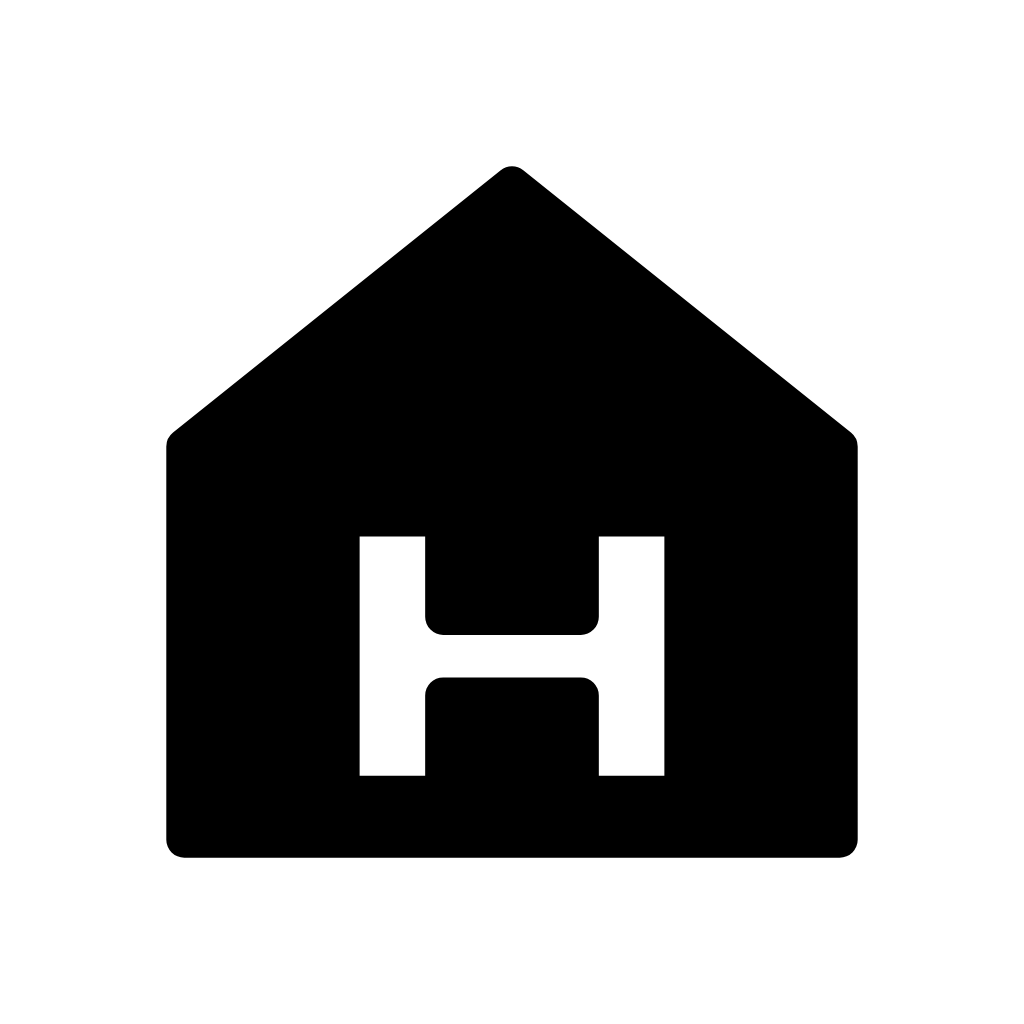
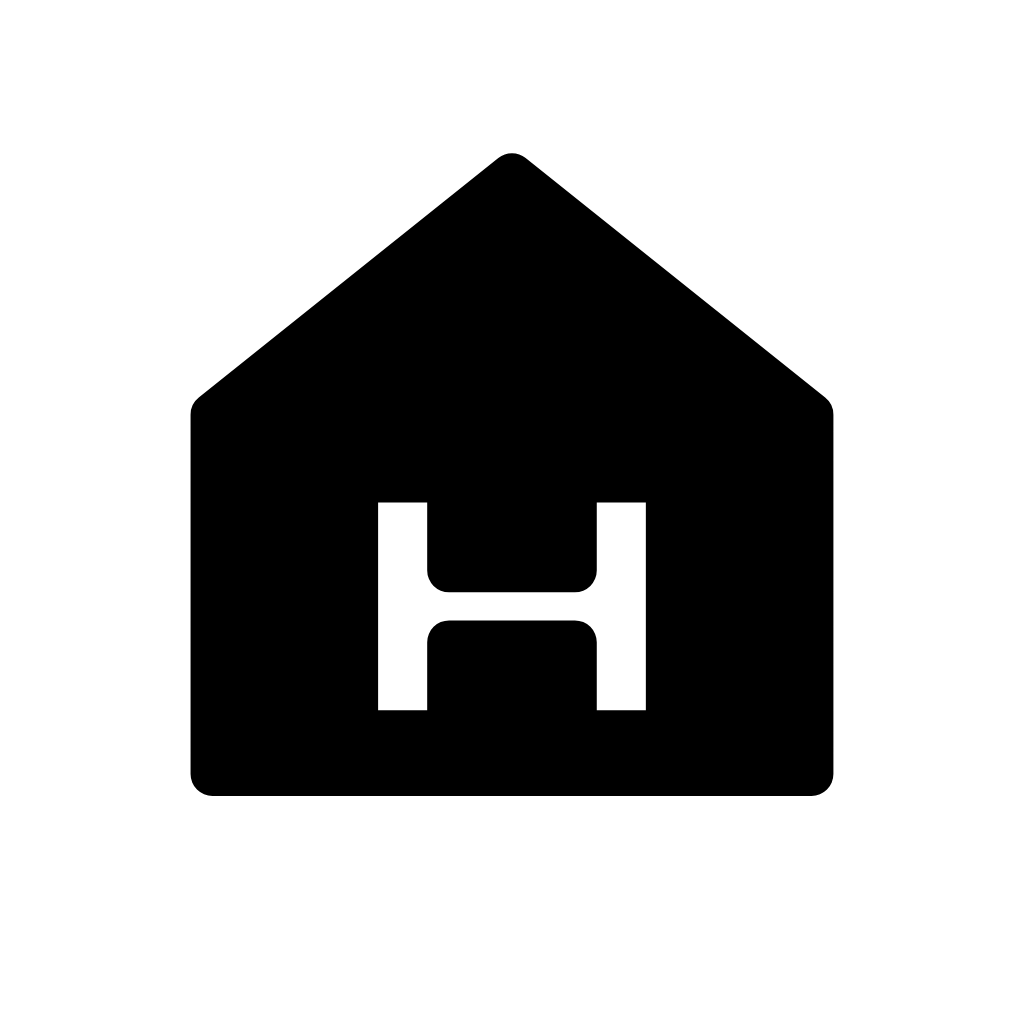
Fit the launcher mark to its enclosing circle, not its bounding box
The first pass sized the mark by bounding box, which is the wrong measure
for a mask that is a circle. The house's extreme points are its two bottom
corners, so a box fit centred it geometrically but not optically: the wide
base crowded the mask while the roof peak left the room above it unused, and
at the ceiling of 63.6% the corners landed on the safe circle itself and the
mark read as though it had been clipped.

Fit the minimum enclosing circle instead. The centre is found by stepping
toward the farthest sampled point with a shrinking step, then eased halfway
back toward the box centre — the tight centre maximises size but lifts the
house visibly high, and the halfway point recovers the balance for about 6%
of the size. sourceFraction now means enclosing-circle diameter over canvas
width, against a hard ceiling of 66/73.44 = 0.899; it is set to 0.82.

Also compensate for the roundness stroke, which is centred and so dilated
the silhouette by half its width on every side, pushing it past the circle.

Measured on the generated artwork: max radius 30.13dp against the 33dp safe
radius, 91.3%, so the mark clears the mask with real margin.

diff --git a/tool/generate_launcher_icons.dart b/tool/generate_launcher_icons.dart
@@ -23,10 +23,17 @@
 // and the generated mipmap-anydpi-v26/ic_launcher.xml then insets it by 16%,
 // so the artwork lives across 73.4dp. The launcher's safe circle is 66dp.
 //
-// A square-ish mark is limited by its DIAGONAL: to inscribe in a 66dp circle
-// its side must be <= 66/sqrt(2) = 46.7dp, which is 46.7/73.4 = ~64% of the
-// source canvas. A circular mark has no diagonal penalty and can run to
-// 66/73.4 = ~90%; we stop at 80% to leave breathing room.
+// The mask is a circle, so `sourceFraction` is the diameter of the mark's
+// MINIMUM ENCLOSING CIRCLE as a fraction of the canvas — not a bounding-box
+// width. The hard ceiling is 66/73.44 = 0.899; we draw at 0.82, leaving about
+// 9% radial margin so the mark does not appear to graze the mask.
+//
+// Measuring radially rather than by bounding box matters for a shape like the
+// house, whose extreme points are its two bottom corners. Fitting its box
+// centred the shape geometrically but not optically: the base crowded the mask
+// while the roof peak left room unused. The enclosing-circle fit re-centres it
+// and, because the shape's optimal centre sits above its box centre, allows a
+// noticeably larger mark at the same safe-circle limit.
 //
 // The icon being replaced was configured at 50%, i.e. 36.7dp inside a 66dp
 // circle — about 31% of the visible area. That is why it read as a small mark
@@ -89,7 +96,7 @@ class ConceptA extends Concept {
   String get id => 'a';
 
   @override
-  double get sourceFraction => 0.64;
+  double get sourceFraction => 0.82;
 
   @override
   Path unitPath() {
@@ -128,7 +135,7 @@ class ConceptB extends Concept {
   final double roundness;
 
   @override
-  double get sourceFraction => 0.64;
+  double get sourceFraction => 0.82;
 
   @override
   Path unitPath() {
@@ -165,7 +172,7 @@ class ConceptC extends Concept {
   String get id => 'c';
 
   @override
-  double get sourceFraction => 0.80;
+  double get sourceFraction => 0.82;
 
   static const _center = Offset(0.5, 0.66);
   static const _radius = 0.34;
@@ -245,19 +252,80 @@ final concepts = <Concept>[
 // Rendering
 // ---------------------------------------------------------------------------
 
-/// Scales a concept's unit path so its bounding box spans [fraction] of a
-/// [side]-px canvas, centred on the canvas.
+/// Samples points along every contour of [p], for the enclosing-circle fit.
+List<Offset> _samplePath(Path p) {
+  final pts = <Offset>[];
+  for (final metric in p.computeMetrics()) {
+    final n = math.max(24, (metric.length * 200).round());
+    for (var i = 0; i <= n; i++) {
+      final t = metric.getTangentForOffset(metric.length * i / n);
+      if (t != null) pts.add(t.position);
+    }
+  }
+  return pts;
+}
+
+/// Smallest circle enclosing [pts], found by repeatedly stepping the centre
+/// toward whichever point is currently farthest with a shrinking step.
+(Offset centre, double radius) _enclosingCircle(List<Offset> pts) {
+  var c = pts.first;
+  for (final p in pts) {
+    c = Offset(c.dx + p.dx, c.dy + p.dy);
+  }
+  c = Offset(c.dx / (pts.length + 1), c.dy / (pts.length + 1));
+
+  var f = 0.1;
+  for (var i = 0; i < 6000; i++) {
+    var far = pts.first;
+    var best = -1.0;
+    for (final p in pts) {
+      final d = (p - c).distanceSquared;
+      if (d > best) {
+        best = d;
+        far = p;
+      }
+    }
+    c = Offset(c.dx + (far.dx - c.dx) * f, c.dy + (far.dy - c.dy) * f);
+    f *= 0.9988;
+  }
+
+  var r = 0.0;
+  for (final p in pts) {
+    r = math.max(r, (p - c).distance);
+  }
+  return (c, r);
+}
+
+/// Scales a concept's unit path so its ENCLOSING CIRCLE spans [fraction] of a
+/// [side]-px canvas, and centres that circle on the canvas.
+///
+/// Fitting the bounding box instead would centre the house geometrically while
+/// its mass sits low: the wide base crowded the launcher's circular mask while
+/// the roof peak wasted the room above it. The mask is a circle, so the fit
+/// that matters is radial — which both re-centres the mark optically and lets
+/// it be meaningfully larger at the same safe-circle limit.
 Path _fitted(Concept c, double side, double fraction) {
   final unit = c.unitPath();
-  final b = unit.getBounds();
-  // Square-ish concepts are constrained by their larger dimension.
-  final span = math.max(b.width, b.height);
-  final scale = (side * fraction) / span;
+  final pts = _samplePath(unit);
+  final (tight, _) = _enclosingCircle(pts);
+
+  // The tight centre maximises size but leaves the house sitting visibly high,
+  // because its optimal centre is 0.125 below the box centre and placing that
+  // on the canvas centre lifts the shape by the same amount. Halfway back
+  // recovers most of the balance and costs only about 6% of the size.
+  final centre = Offset.lerp(tight, unit.getBounds().center, 0.5)!;
+
+  var radius = 0.0;
+  for (final p in pts) {
+    radius = math.max(radius, (p - centre).distance);
+  }
+
+  final scale = (side * fraction / 2) / radius;
 
   final m = Matrix4.identity()
     ..translateByDouble(
-      side / 2 - (b.left + b.width / 2) * scale,
-      side / 2 - (b.top + b.height / 2) * scale,
+      side / 2 - centre.dx * scale,
+      side / 2 - centre.dy * scale,
       0,
       1,
     )
@@ -292,7 +360,13 @@ Future<ui.Image> _renderTile({
   final fraction =
       fractionOverride ?? (concept.sourceFraction * 73.4 / 66.0);
 
-  final path = _fitted(concept, side, fraction);
+  // The roundness stroke is centred, so it dilates the silhouette by half its
+  // width on every side. Shrink the fill first so fill + stroke together span
+  // exactly `fraction` — without this the mark overflowed the safe circle and
+  // the launcher's circular mask clipped the house's bottom corners.
+  final effective = fraction / (1 + concept.roundness);
+  final path = _fitted(concept, side, effective);
+
   canvas.drawPath(
     path,
     Paint()
@@ -309,7 +383,7 @@ Future<ui.Image> _renderTile({
         ..style = PaintingStyle.stroke
         ..strokeJoin = StrokeJoin.round
         ..strokeCap = StrokeCap.round
-        ..strokeWidth = side * fraction * concept.roundness,
+        ..strokeWidth = side * effective * concept.roundness,
     );
   }
 
